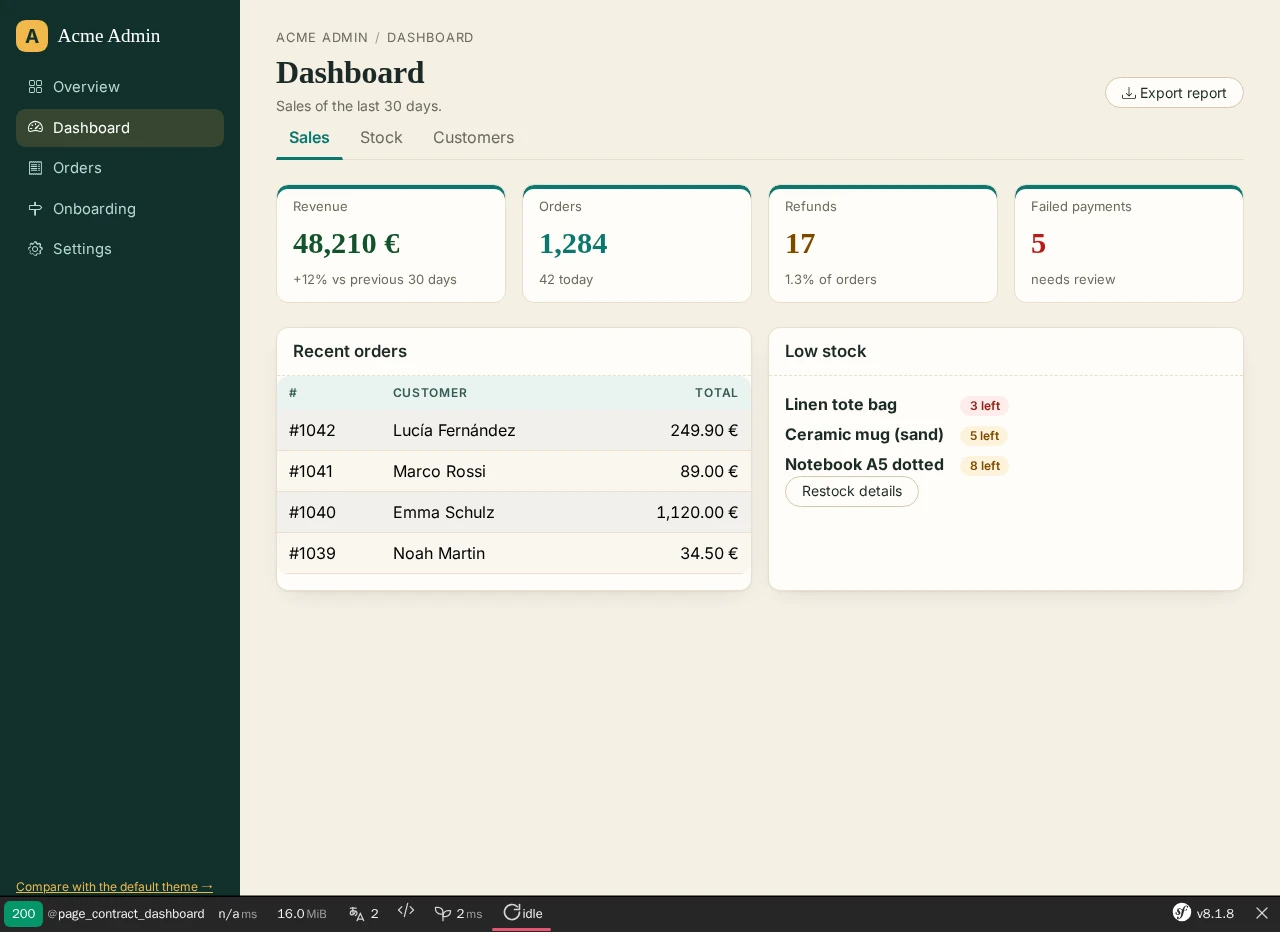
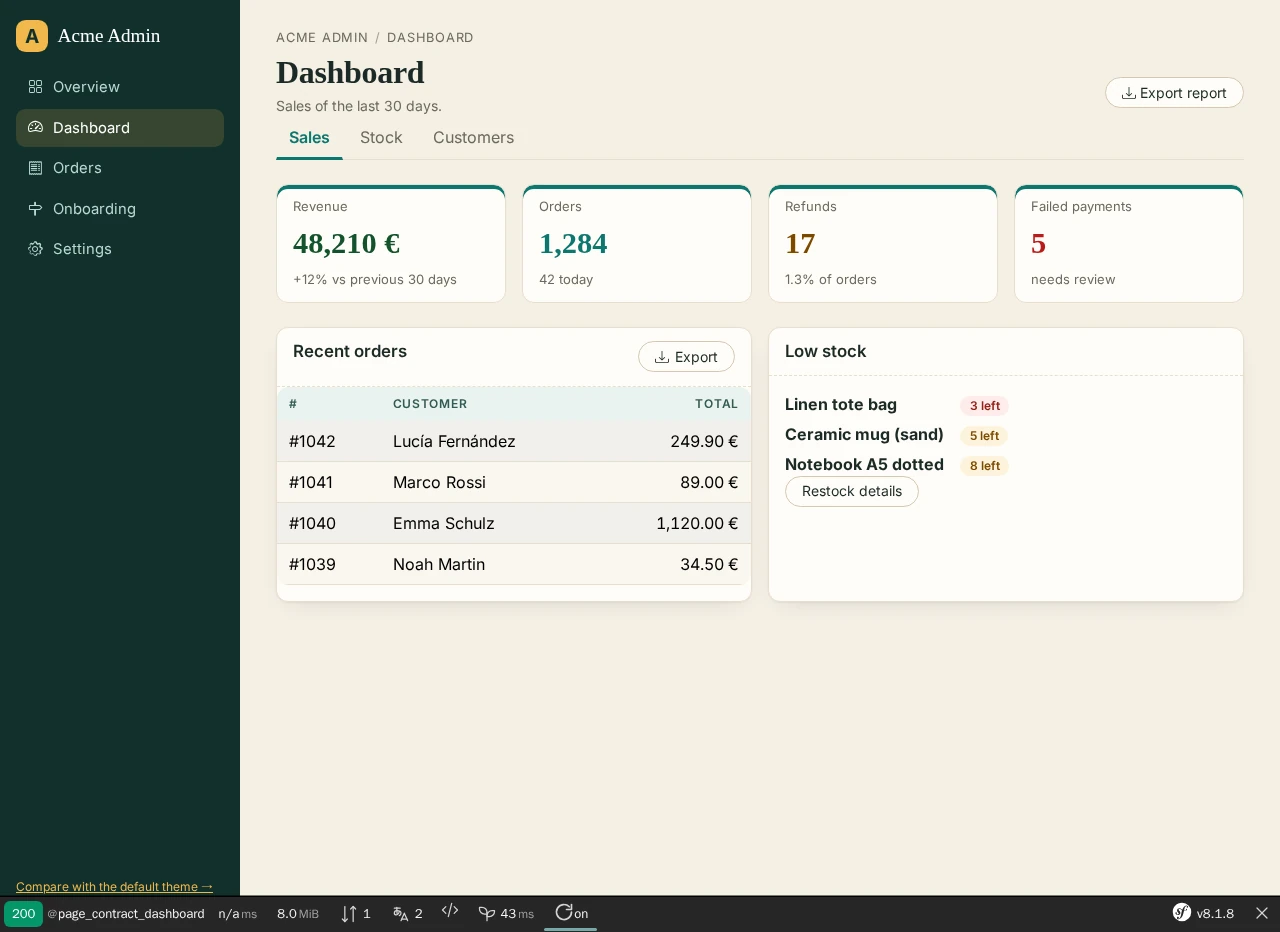
feat(demo): export menu, sign-in root errors and 2.3 e2e; re-captured screenshots
Dashboard card header with the menu partial (host menu_toggle class), sign-in
page with root form errors (?failed=1), document title and form attributes;
Playwright e2e for the menu light dismiss, auth form errors / full-width
fields / list reset, single filter placeholder and body padding. Contract-test
fixtures use literal labels (translation_domain false). New screenshots
page-contract-menu and page-contract-auth-errors; dashboard and default list
re-captured. Menu toggle label spacing as a margin (Bootstrap .btn toggles).

Changed region(s): [[0.2188, 0.3734, 0.9688, 0.6534], [0.2188, 0.9646, 0.4688, 1.0]]

diff --git a/demo/symfony8/e2e/tests/page-contract.spec.ts b/demo/symfony8/e2e/tests/page-contract.spec.ts
@@ -355,3 +355,58 @@ test.describe('page contract — default theme view', () => {
     expect(background).not.toBe(color);
   });
 });
+
+test.describe('page contract — UiKit 2.3', () => {
+  for (const view of ['', '/default']) {
+    test(`dashboard${view}: export menu (native disclosure) opens and closes on outside click / Escape`, async ({ page }) => {
+      await page.goto(`/page-contract${view}/dashboard`);
+      const menu = page.getByTestId('export-menu');
+      const toggle = menu.locator('summary');
+      const panel = menu.locator('.nowo-ui-menu__panel');
+      await expect(panel).toBeHidden();
+      await toggle.click();
+      await expect(panel).toBeVisible();
+      await expect(panel.getByRole('link', { name: 'JSON' })).toBeVisible();
+      // the panel floats (does not push the card content) and stays inside the viewport
+      expect(await panel.evaluate((el) => getComputedStyle(el).position)).toBe('absolute');
+      const box = await panel.boundingBox();
+      expect(box!.x + box!.width).toBeLessThanOrEqual(page.viewportSize()!.width);
+      await page.mouse.click(5, 5);
+      await expect(panel).toBeHidden();
+      await toggle.click();
+      await expect(panel).toBeVisible();
+      await panel.getByRole('link', { name: 'CSV' }).focus();
+      await page.keyboard.press('Escape');
+      await expect(panel).toBeHidden();
+      await expect(toggle).toBeFocused();
+    });
+  }
+
+  test('sign-in: root form errors above the fields, document title, form attributes, full-width fields', async ({ page }) => {
+    await page.goto('/page-contract/default/sign-in?failed=1');
+    const errors = page.locator('[data-nowo-ui-region="form-errors"]');
+    await expect(errors).toHaveAttribute('role', 'alert');
+    await expect(errors).toContainText('The email or password is incorrect.');
+    await expect(page).toHaveTitle(/^Sign in/);
+    const form = page.getByTestId('login-form');
+    await expect(form).toHaveAttribute('data-turbo', 'false');
+    // errors first, then the fields
+    expect(await form.evaluate((el) => el.firstElementChild?.getAttribute('data-nowo-ui-region'))).toBe('form-errors');
+    const panel = await page.locator('.nowo-ui-auth-panel').boundingBox();
+    const email = await page.locator('#login_email').boundingBox();
+    expect(panel!.width).toBeLessThanOrEqual(28 * 16 + 1);
+    expect(email!.width).toBeGreaterThan(panel!.width - 64);
+    // the footer link list has no reboot padding (unlayered Bootstrap ul { padding-left: 2rem })
+    expect(await page.locator('.nowo-ui-auth-panel__links').evaluate((el) => getComputedStyle(el).paddingLeft)).toBe('0px');
+    await page.goto('/page-contract/default/sign-in');
+    await expect(page.locator('[data-nowo-ui-region="form-errors"]')).toHaveCount(0);
+  });
+
+  test('list: filter placeholder printed once (no double translation); 1.x title classes; no band above the navbar', async ({ page }) => {
+    await page.goto('/page-contract/default/orders');
+    await expect(page.locator('#filters_q')).toHaveAttribute('placeholder', 'Search customers…');
+    await expect(page.locator('#filters_status option').first()).toHaveText('Any status');
+    // the content region carries the vertical padding, not <body>
+    expect(await page.evaluate(() => getComputedStyle(document.body).paddingTop)).toBe('0px');
+  });
+});

diff --git a/demo/symfony8/e2e/tests/screenshots.spec.ts b/demo/symfony8/e2e/tests/screenshots.spec.ts
@@ -70,6 +70,7 @@ const gallery: Array<{ file: string; path: string; ready: string }> = [
   { file: 'page-contract-confirm', path: '/page-contract/orders/1041/delete', ready: '[data-nowo-ui-page="confirm"]' },
   { file: 'page-contract-wizard', path: '/page-contract/onboarding', ready: '[data-nowo-ui-page="wizard"]' },
   { file: 'page-contract-auth', path: '/page-contract/sign-in', ready: '[data-nowo-ui-page="auth"]' },
+  { file: 'page-contract-auth-errors', path: '/page-contract/default/sign-in?failed=1', ready: '[data-nowo-ui-region="form-errors"]' },
 ];
 
 test.describe('page contract screenshots — README', () => {
@@ -99,6 +100,13 @@ test.describe('page contract screenshots — PAGE_CONTRACT.md gallery', () => {
     await open(page, '/page-contract');
     await expect(page.locator('[data-nowo-ui-page="dashboard"]')).toBeVisible();
     await shoot(page, 'page-contract-overview');
+  });
+
+  test('page-contract-menu — export menu open on the host-theme dashboard (2.3)', async ({ page }) => {
+    await open(page, '/page-contract/dashboard');
+    await page.getByTestId('export-menu').locator('summary').click();
+    await expect(page.getByTestId('export-menu').locator('.nowo-ui-menu__panel')).toBeVisible();
+    await shoot(page, 'page-contract-menu');
   });
 
   for (const shot of gallery) {

diff --git a/src/Resources/public/css/nowo-ui.css b/src/Resources/public/css/nowo-ui.css
@@ -3597,10 +3597,14 @@ details:not([open]) > summary:not(.is-morph-ready) > .nowo-ui-disclosure-icon .n
   display: none;
 }
 
+/* Icon + label spacing as a margin (a Bootstrap .btn toggle keeps its unlayered display: inline-block) */
+.nowo-ui-menu__toggle > .nowo-ui-menu__label:not(:first-child) {
+  margin-inline-start: 0.35rem;
+}
+
 .nowo-ui-menu__toggle:not(.btn, .button) {
   display: inline-flex;
   align-items: center;
-  gap: 0.35rem;
   padding: 0.25rem 0.6rem;
   border: 1px solid var(--nowo-ui-border-strong);
   border-radius: var(--nowo-ui-radius);

diff --git a/src/Resources/public/css/nowo-ui.unlayered.css b/src/Resources/public/css/nowo-ui.unlayered.css
@@ -3582,10 +3582,14 @@ details:not([open]) > summary:not(.is-morph-ready) > .nowo-ui-disclosure-icon .n
   display: none;
 }
 
+/* Icon + label spacing as a margin (a Bootstrap .btn toggle keeps its unlayered display: inline-block) */
+.nowo-ui-menu__toggle > .nowo-ui-menu__label:not(:first-child) {
+  margin-inline-start: 0.35rem;
+}
+
 .nowo-ui-menu__toggle:not(.btn, .button) {
   display: inline-flex;
   align-items: center;
-  gap: 0.35rem;
   padding: 0.25rem 0.6rem;
   border: 1px solid var(--nowo-ui-border-strong);
   border-radius: var(--nowo-ui-radius);

diff --git a/demo/symfony8/src/Controller/PageContractController.php b/demo/symfony8/src/Controller/PageContractController.php
@@ -39,6 +39,7 @@ use Symfony\Component\Form\Extension\Core\Type\PasswordType;
 use Symfony\Component\Form\Extension\Core\Type\SearchType;
 use Symfony\Component\Form\Extension\Core\Type\TextareaType;
 use Symfony\Component\Form\Extension\Core\Type\TextType;
+use Symfony\Component\Form\FormError;
 use Symfony\Component\Form\FormView;
 use Symfony\Component\HttpFoundation\Request;
 use Symfony\Component\HttpFoundation\Response;
@@ -278,13 +279,17 @@ final class PageContractController extends AbstractController
 
     #[Route('/sign-in', name: 'page_contract_auth')]
     #[Route('/{theme}/sign-in', name: 'page_contract_default_auth')]
-    public function auth(?string $theme = null): Response
+    public function auth(Request $request, ?string $theme = null): Response
     {
         $form = $this->container->get('form.factory')->createNamedBuilder('login')
             ->add('email', EmailType::class, ['label' => 'Email', 'attr' => ['placeholder' => 'you@acme.test']])
             ->add('password', PasswordType::class, ['label' => 'Password'])
             ->add('remember', CheckboxType::class, ['label' => 'Keep me signed in', 'required' => false])
             ->getForm();
+        if ($request->query->has('failed')) {
+            // Root form errors (CSRF, bad credentials) render above the fields in the form_errors slot (2.3)
+            $form->addError(new FormError('The email or password is incorrect.'));
+        }
 
         return $this->render('@NowoUiKit/page/auth.html.twig', ['page' => new AuthPage(
             'Sign in to Acme Admin',
@@ -296,6 +301,9 @@ final class PageContractController extends AbstractController
             [new Link('Forgot your password?', '#'), new Link('Request an account', '#')],
             $this->bundle($theme),
             null !== $theme ? 'page_contract/default_guest_layout.html.twig' : null,
+            // 2.3: <title> apart from the panel heading, extra <form> attributes
+            documentTitle: 'Sign in',
+            formAttributes: ['data-turbo' => 'false', 'data-testid' => 'login-form'],
         )]);
     }
 

diff --git a/demo/symfony8/tests/PageContractTest.php b/demo/symfony8/tests/PageContractTest.php
@@ -31,6 +31,9 @@ final class PageContractTest extends PageContractTestCase
     public static function pageFixtures(): iterable
     {
         $forms = Forms::createFormFactoryBuilder()->getFormFactory();
+        // Literal labels (the demo has no catalogue): translation_domain false, or the strict missing-message rule
+        // of the contract test (UiKit 2.3) flags the humanized labels
+        $literal = ['translation_domain' => false];
         $order = ['id' => 1042, 'customer' => 'Lucía Fernández', 'email' => 'lucia@example.com', 'total' => '249.90', 'status' => 'paid', 'placed' => '2026-10-16 09:12'];
 
         yield 'overview' => new PageFixture('page_contract/index.html.twig', [
@@ -46,7 +49,7 @@ final class PageContractTest extends PageContractTestCase
             new PageHeader('Orders', null, [Action::create('/orders/new', 'New order')]),
             [new Column('id', '#'), new Column('customer', 'Customer'), new Column('placed', 'Placed'), new Column('status', 'Status'), new Column('total', 'Total')],
             [$order],
-            $forms->createNamedBuilder('filters', options: ['method' => 'GET'])->add('q', SearchType::class, ['required' => false])->getForm()->createView(),
+            $forms->createNamedBuilder('filters', options: ['method' => 'GET'] + $literal)->add('q', SearchType::class, ['required' => false])->getForm()->createView(),
             [Action::view('/orders/1042')],
             new Pagination(1, 5, 1),
         )]);
@@ -56,7 +59,7 @@ final class PageContractTest extends PageContractTestCase
         )]);
         yield 'order_edit' => new PageFixture('page_contract/orders/edit.html.twig', ['page' => new FormPage(
             new PageHeader('Edit order #1042'),
-            $forms->createNamedBuilder('order')->add('customer', TextType::class)->getForm()->createView(),
+            $forms->createNamedBuilder('order', options: $literal)->add('customer', TextType::class)->getForm()->createView(),
         )]);
     }
 

diff --git a/docs/PAGE_CONTRACT.md b/docs/PAGE_CONTRACT.md
@@ -717,7 +717,9 @@ Every scaffold with the host theme: [overview](images/demo/page-contract-overvie
 [list](images/demo/page-contract-list.webp) · [show](images/demo/page-contract-show.webp) ·
 [form](images/demo/page-contract-form.webp) · [settings](images/demo/page-contract-settings.webp) ·
 [dashboard](images/demo/page-contract-dashboard.webp) · [confirm](images/demo/page-contract-confirm.webp) ·
-[wizard](images/demo/page-contract-wizard.webp) · [auth](images/demo/page-contract-auth.webp).
+[wizard](images/demo/page-contract-wizard.webp) · [auth](images/demo/page-contract-auth.webp). 2.3:
+[export menu](images/demo/page-contract-menu.webp) (`menu` partial on the dashboard) ·
+[sign-in with root form errors](images/demo/page-contract-auth-errors.webp) (default theme, `form_errors` slot).
 
 ## Contract test
 

diff --git a/docs/CHANGELOG.md b/docs/CHANGELOG.md
@@ -78,6 +78,10 @@ UiKit 2.3: the backlog of the phase-2 migrations (Pwa, ChatKit, SearchKit, AuthK
 
 ### Changed
 
+- Demo (REQ-DEMO-013): export menu on the dashboard (host `menu_toggle` class), sign-in with root form errors
+  (`?failed=1`), document title and form attributes; e2e for 2.3; screenshots `page-contract-menu`,
+  `page-contract-auth-errors`, re-captured `page-contract-dashboard` and `page-contract-default-list` (no band above
+  the navbar).
 - `PageContractTestCase` collects **all** missing messages through the `DataCollectorTranslator` and fails on any.
 
 ### Fixed
